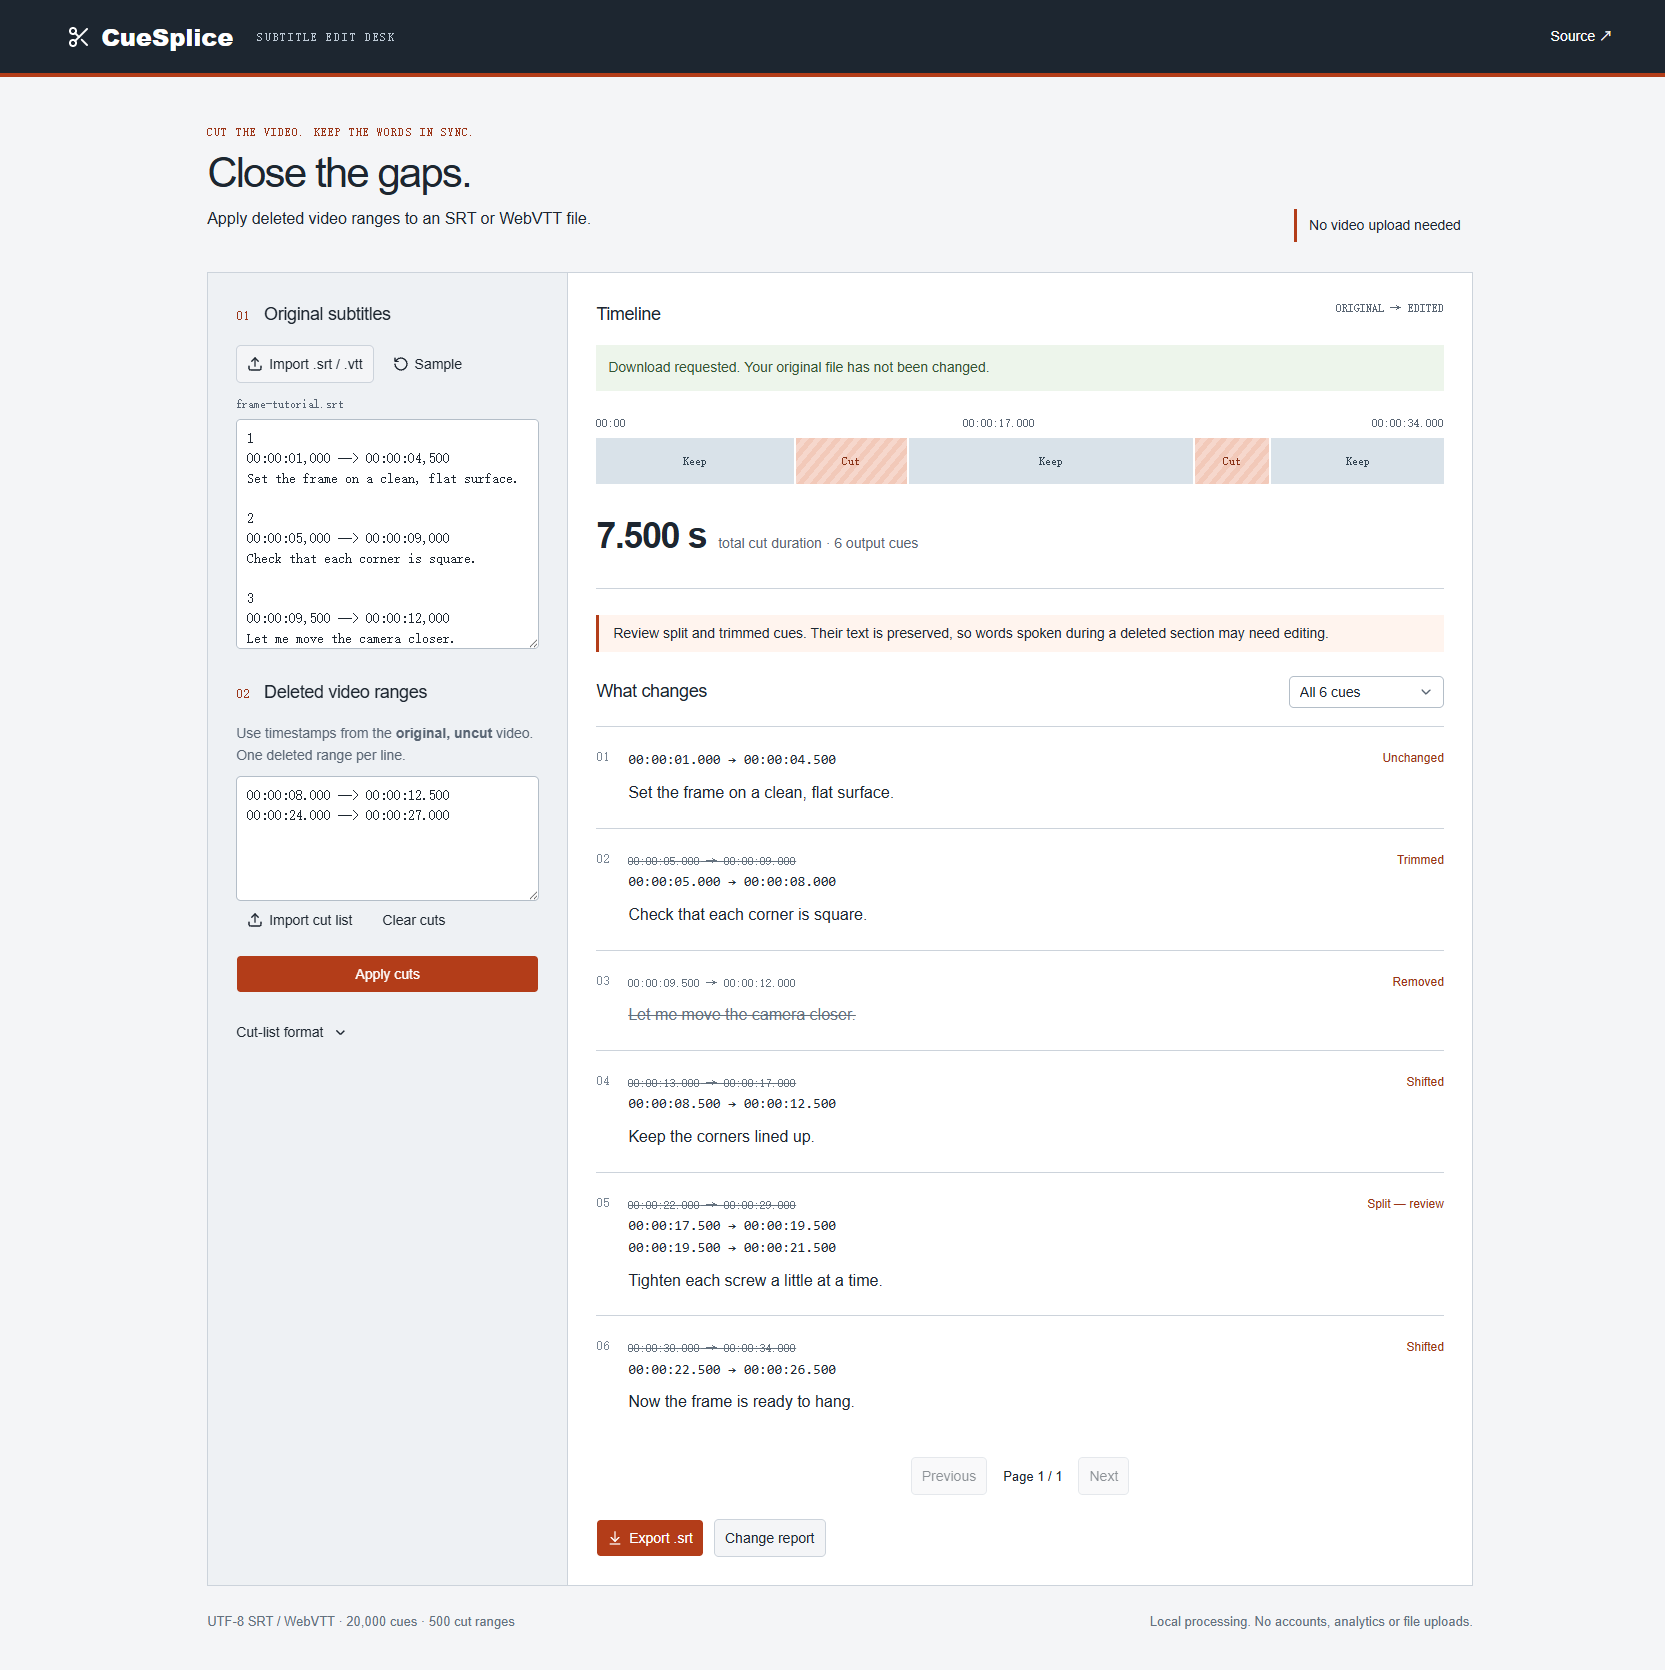
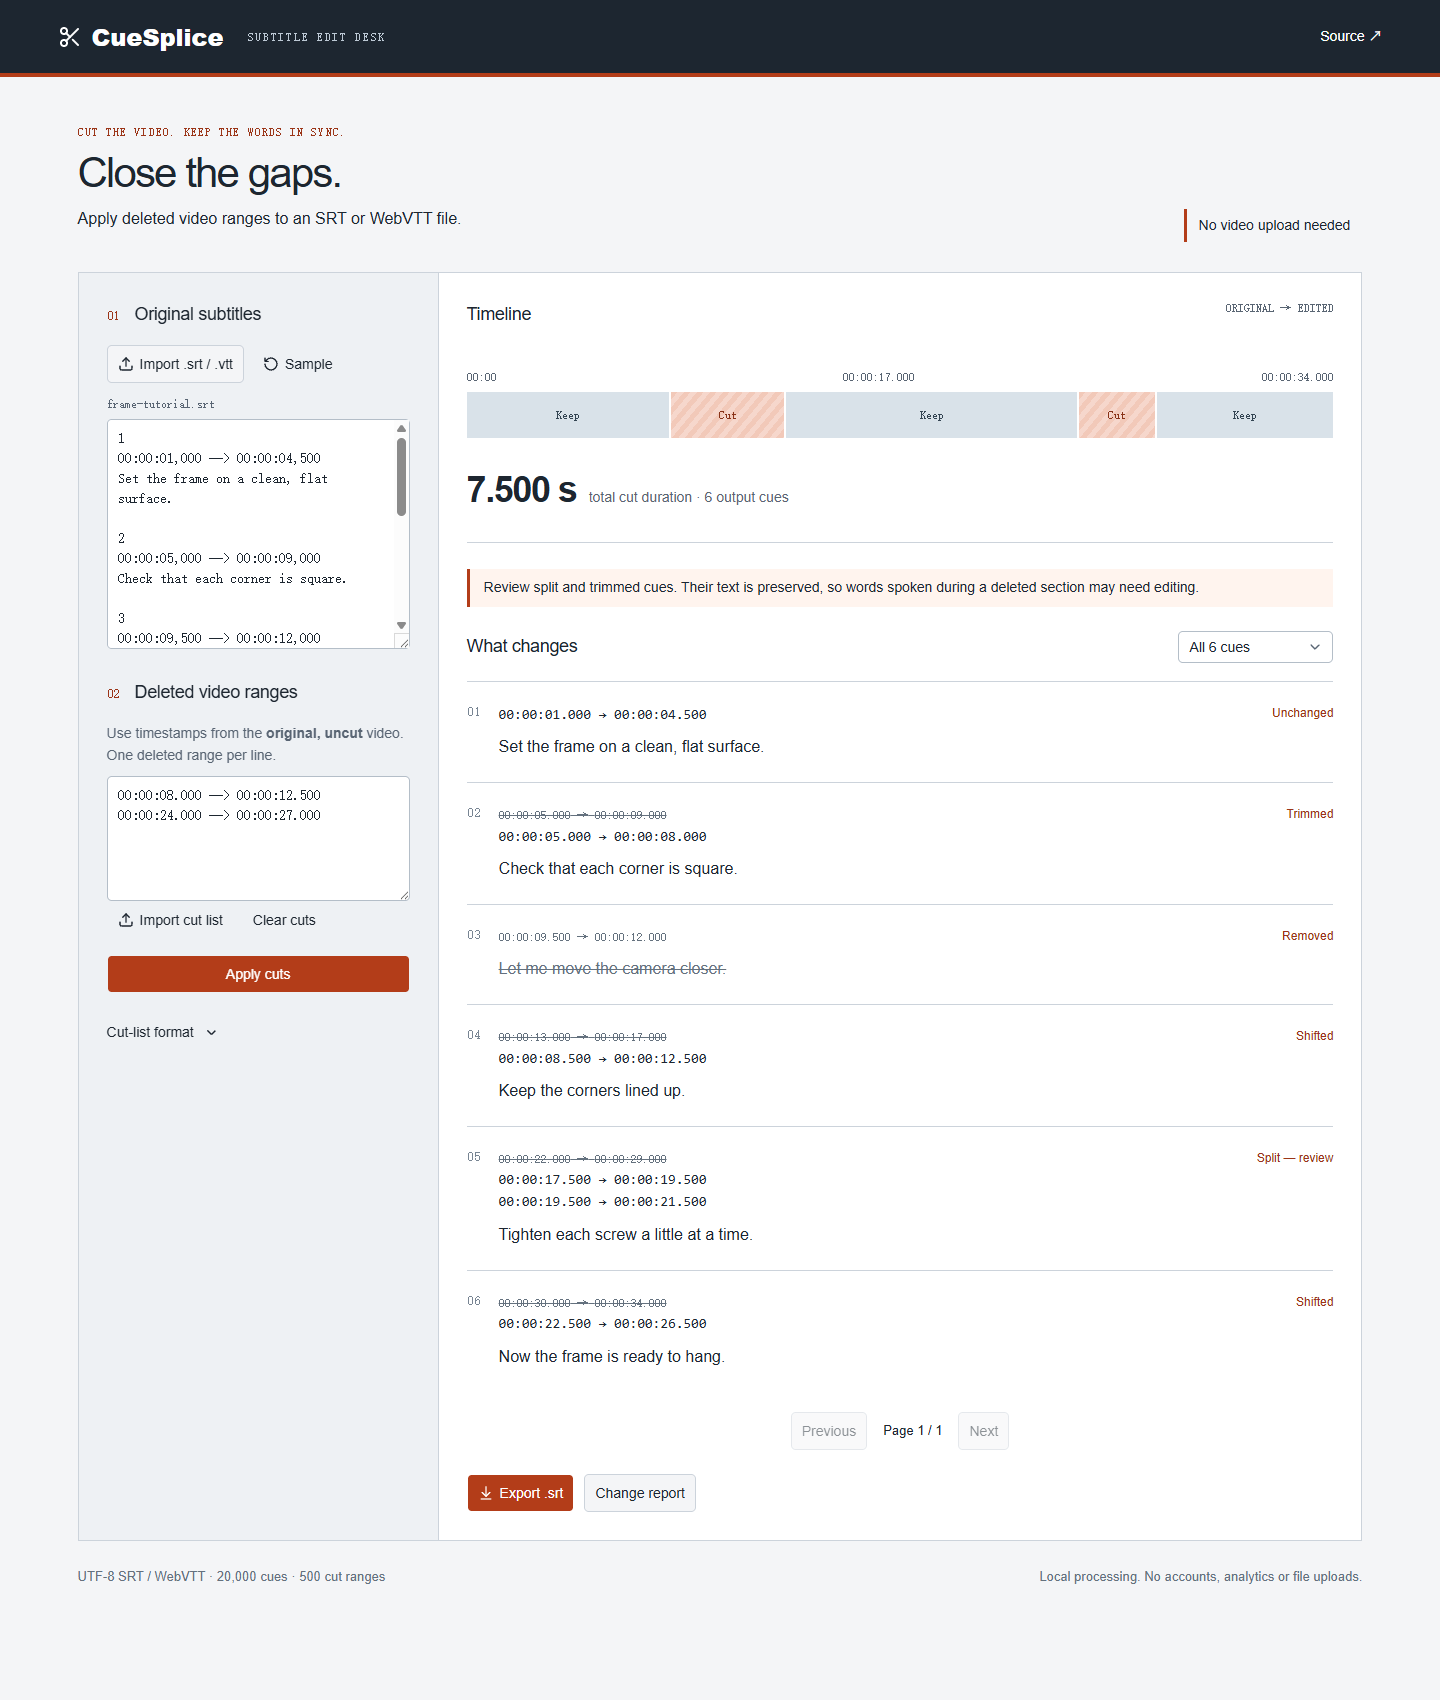
Add timing feedback guide and prepare first release

diff --git a/README.md b/README.md
@@ -4,7 +4,7 @@ Retiming SRT and WebVTT subtitles after removing sections from a video.
 
 A fixed subtitle offset works until you cut something out of the middle. CueSplice takes deleted ranges measured on the original video, removes their elapsed time, and moves later subtitles into place. Cues crossing a cut are trimmed or split; completely removed cues are listed in the change report.
 
-**[Open the editor](https://yougan001.github.io/cuesplice/)** · [中文说明](README.zh-CN.md)
+**[Open the editor](https://yougan001.github.io/cuesplice/)** · [中文说明](README.zh-CN.md) · [Releases](https://github.com/Yougan001/cuesplice/releases)
 
 ![CueSplice showing original subtitles, deleted ranges and the resulting cue-by-cue report](docs/images/workspace.png)
 
@@ -47,7 +47,7 @@ npm run lint
 npm run build
 ```
 
-The editor uses React, TypeScript, Vinext and shadcn/ui. GitHub Actions builds a static export and publishes `dist/client/cuesplice` to Pages. The comparison engine remains independent of the interface.
+The editor uses React, TypeScript, Vinext and shadcn/ui. GitHub Actions builds a static export and publishes `dist/client/cuesplice` to Pages. The timeline engine remains independent of the interface.
 
 On this Windows environment, the Vinext export command can hit a Node/libuv shutdown assertion after producing its output. That is not treated as a successful local build; the Linux Pages workflow is the release build gate. See [validation notes](docs/testing.md).
 
@@ -62,6 +62,10 @@ On this Windows environment, the Vinext export command can hit a Node/libuv shut
 Supported: UTF-8 SRT and standalone WebVTT, multiline text, WebVTT cue settings and metadata. Limits: 2 million text characters, 20,000 cues, 500 cut ranges, 100,000 output fragments. File-size limits are checked separately by the browser importer.
 
 Not supported: speed ramps, transitions that change timing, EDL/frame-based imports, ASS/SSA styling, WebVTT inline karaoke timestamps or external timestamp maps. This is not a video editor or a subtitle translation tool.
+
+## Contribute
+
+Found a timing problem? [Share a minimal example](https://github.com/Yougan001/cuesplice/issues/new?template=timing-problem.yml). See the [contribution guide](CONTRIBUTING.md) for test cases and development checks.
 
 ## License
 

diff --git a/CONTRIBUTING.md b/CONTRIBUTING.md
@@ -1,0 +1,30 @@
+# Contributing to CueSplice
+
+Small, reproducible timing examples are particularly useful. English and Chinese reports are welcome.
+
+## Report a problem
+
+Use the [timing issue form](https://github.com/Yougan001/cuesplice/issues/new?template=timing-problem.yml). Include a few invented subtitle cues, the deleted ranges on the **original** video timeline, and the timestamps you expected after editing. Add your browser/version or Node.js version if you use the engine directly.
+
+Do not upload private recordings or someone else's full subtitle file. Three short cues are usually enough to show a boundary error. A screenshot helps with layout problems, but text inputs are needed to reproduce timing problems.
+
+Before proposing a new format, check the README's supported inputs. Speed changes, EDL timecodes, ASS styling and translation are outside the current scope.
+
+## Make a change
+
+Use Node.js 22.13+ and the committed lockfile:
+
+```sh
+npm ci
+npm test
+npm run lint
+npm run typecheck
+```
+
+Keep timeline rules in `core/timeline.mjs`, independent of the browser. A timing fix should include a failing example in `tests/timeline.test.mjs`, with explicit expected output times. Cuts use half-open intervals and integer milliseconds; do not replace those rules with approximate floating-point offsets.
+
+For editor changes, check the sample, an empty cut list, an invalid range and the exported SRT. Also check a narrow viewport if controls or layout changed. Split cues repeat their text by design, so the review warning must remain.
+
+Run `npm run build` before submitting when your environment supports it. The known Windows export failure is documented in [testing notes](docs/testing.md); a nonzero exit is not success. The Linux Pages workflow is the release build gate.
+
+Keep a pull request focused on one problem. Explain the change, how you checked it, and any remaining limitations. Please do not add accounts, analytics or upload services to solve a local editing problem.

diff --git a/CHANGELOG.md b/CHANGELOG.md
@@ -1,0 +1,14 @@
+# Changelog
+
+## 0.1.0 — 2026-09-05
+
+First public release.
+
+- Retimes UTF-8 SRT and standalone WebVTT after deleted video ranges.
+- Merges overlapping cuts and uses integer-millisecond, half-open intervals.
+- Reports unchanged, shifted, trimmed, split and removed cues.
+- Imports subtitle files and cut lists; exports subtitles and a JSON change report.
+- Runs locally in the browser, with a dependency-free timeline engine.
+- Includes 12 automated tests, real desktop/mobile screenshots and documented validation limits.
+
+Split and trimmed cues need text review. Speed changes, ASS/SSA, EDL, inline karaoke timestamps and external WebVTT timestamp maps are not supported. Offline page loading is not provided.
